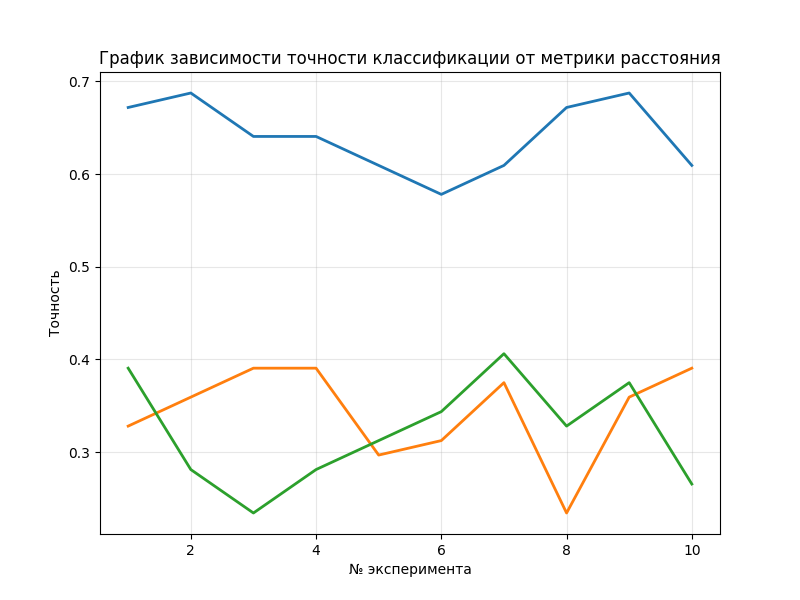
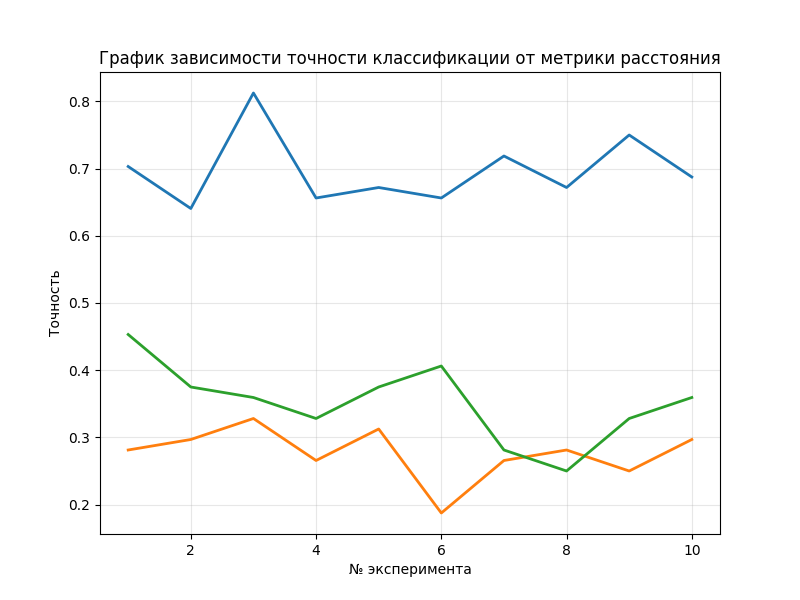
3 fix

diff --git a/lab1/3/main.py b/lab1/3/main.py
@@ -12,7 +12,7 @@ def printPlot1(neighbors, accuracies):
     plt.ylabel('Точность')
     plt.title('График зависимости ошибки классификации от количества ближайших соседей')
     plt.grid(alpha=0.3)
-    plt.show()
+    plt.savefig('plot1.png') 
 
 def getAccuracyTroughMetric(i, metric, data, target):
     trainSize = 150
@@ -84,6 +84,7 @@ with open(FILENAME, "r", newline="") as file:
     for row in reader:
         data.append(list(map(float, row[1:])))
 
+random.seed(0)
 
 random.shuffle(data)
 target = []
@@ -93,34 +94,35 @@ for i in data:
     
 scaler = StandardScaler()
 data_normalized = scaler.fit_transform(data)
+data_normalized = data_normalized.tolist()
 
 
 accuracies = []
 neighbors = []
 
-# accuracies, neighbors = getDifferentNeighbors(30, data, target)
+accuracies, neighbors = getDifferentNeighbors(30, data_normalized, target)
 
-# printPlot1(neighbors, accuracies)
+printPlot1(neighbors, accuracies)
 
-# cosineMetric = getAccuracyTroughMetric(10, 'cosine', data, target)
-# manhattanMetric = getAccuracyTroughMetric(10, 'manhattan', data, target)
-# euclideanMetric = getAccuracyTroughMetric(10, 'euclidean', data, target)
-# ar = list(range(1, 11))
+cosineMetric = getAccuracyTroughMetric(10, 'cosine', data_normalized, target)
+manhattanMetric = getAccuracyTroughMetric(10, 'manhattan', data_normalized, target)
+euclideanMetric = getAccuracyTroughMetric(10, 'euclidean', data_normalized, target)
+ar = list(range(1, 11))
 
-# plt.figure(figsize=(8, 6))
-# plt.plot(ar, cosineMetric, label='Cosine', linewidth=2)
-# plt.plot(ar, manhattanMetric, label='Manhattan', linewidth=2)
-# plt.plot(ar, euclideanMetric, label='Euclidean', linewidth=2)
-# plt.xlabel('№ эксперимента')
-# plt.ylabel('Точность')
-# plt.title('График зависимости точности классификации от метрики расстояния')
-# plt.grid(alpha=0.3)
-# plt.show()
+plt.figure(figsize=(8, 6))
+plt.plot(ar, cosineMetric, label='Cosine', linewidth=2)
+plt.plot(ar, manhattanMetric, label='Manhattan', linewidth=2)
+plt.plot(ar, euclideanMetric, label='Euclidean', linewidth=2)
+plt.xlabel('№ эксперимента')
+plt.ylabel('Точность')
+plt.title('График зависимости точности классификации от метрики расстояния')
+plt.grid(alpha=0.3)
+plt.savefig('plot2.png') 
 
 trainSize = 150
 
 neigh = KNeighborsClassifier(n_neighbors=5)
-neigh.fit(data, target)
-y_pred = neigh.predict([[1.516, 11.7, 1.01, 1.19, 72.59, 0.43, 11.44, 0.02, 0.1]])
+neigh.fit(data_normalized, target)
+y_pred = neigh.predict(scaler.transform([[1.516, 11.7, 1.01, 1.19, 72.59, 0.43, 11.44, 0.02, 0.1]]))
 print(y_pred)
     
